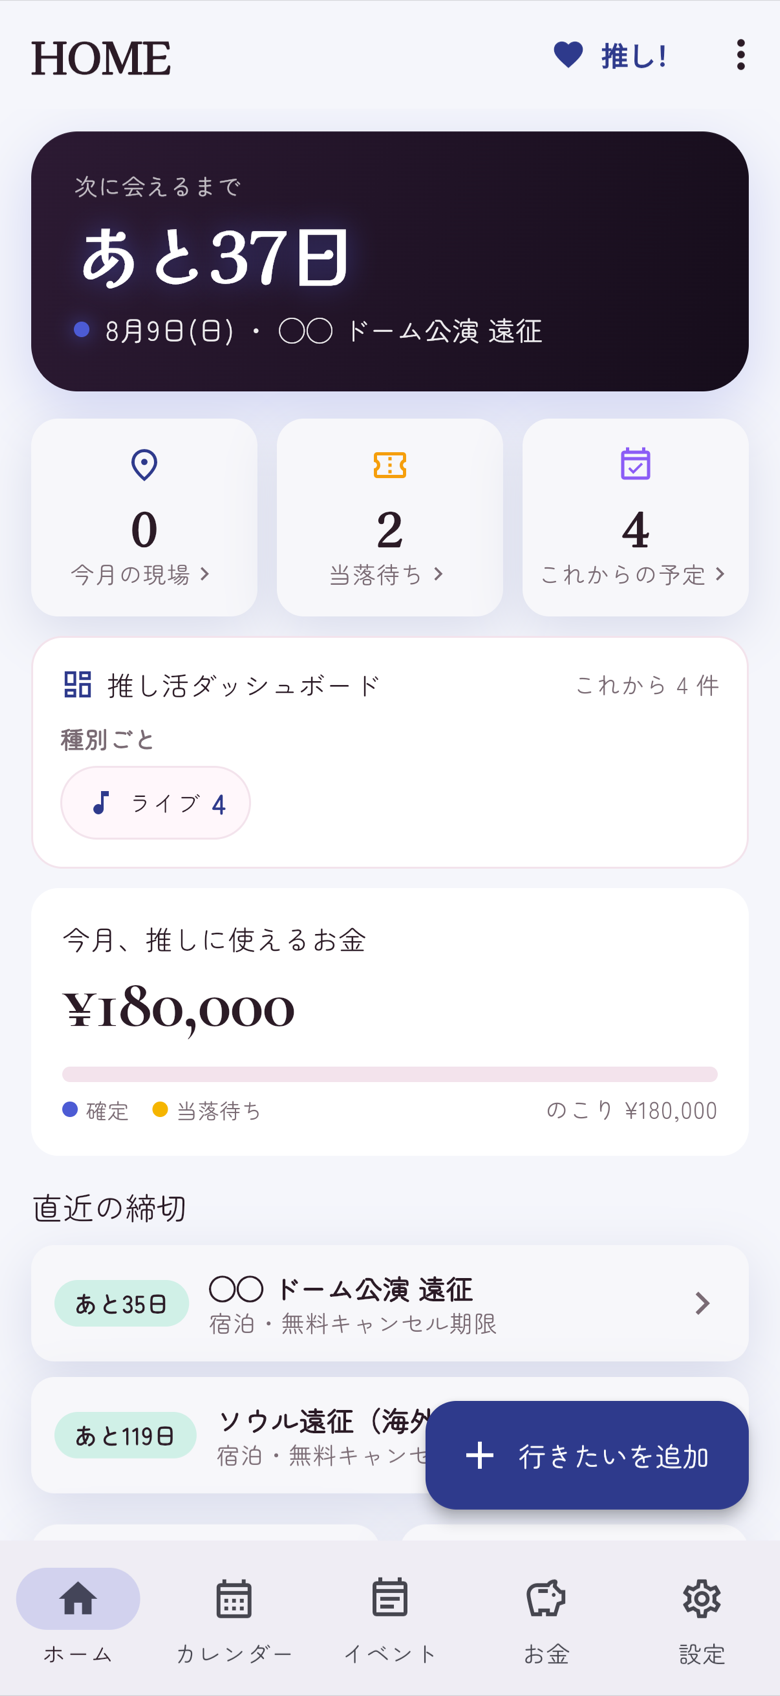
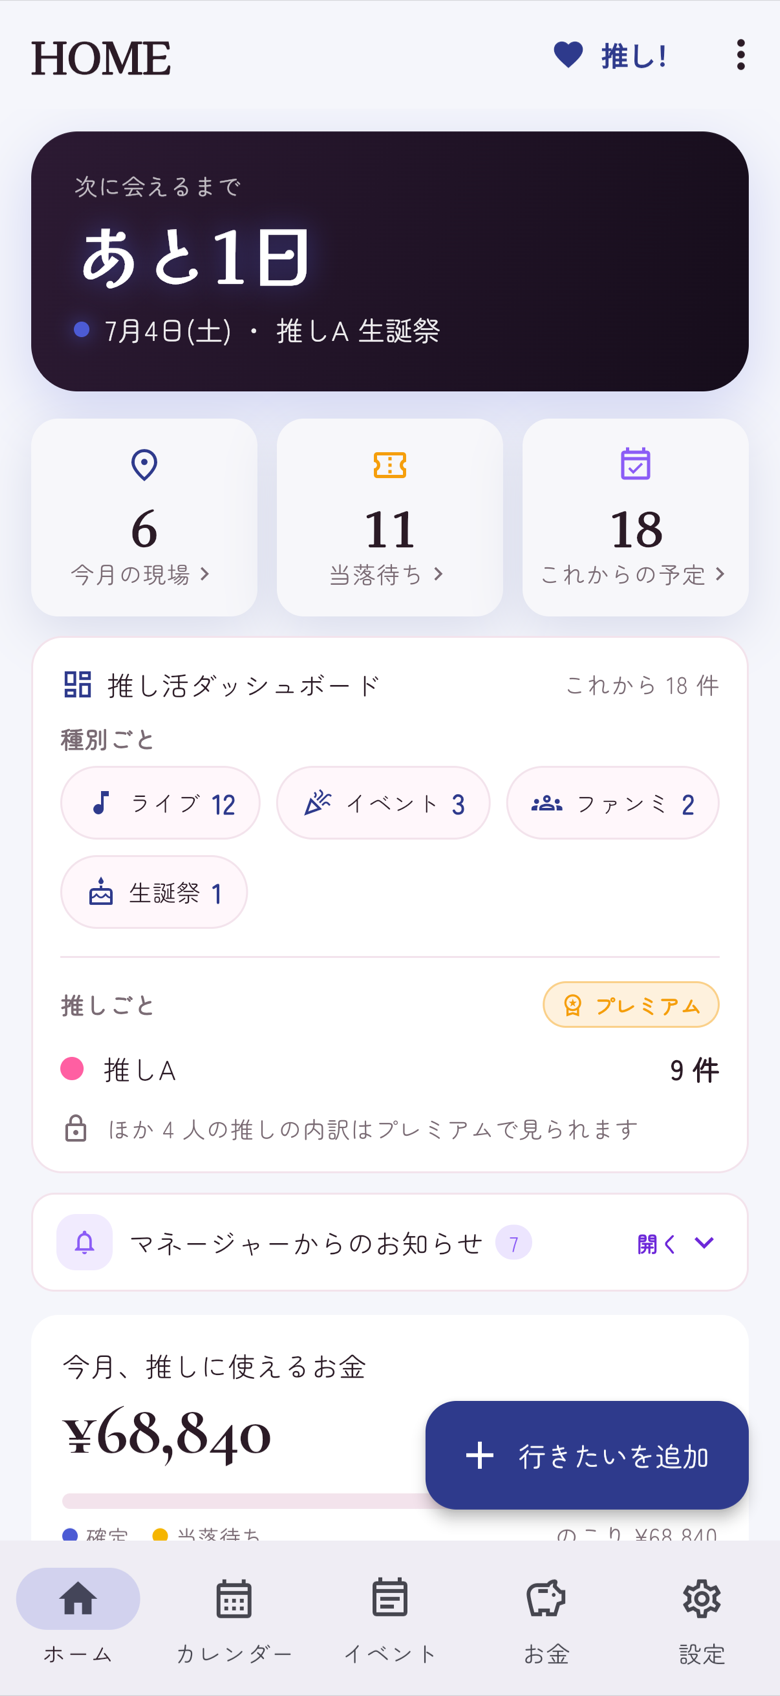
fix(LP): 旧モックの一掃＝Heroも実スクショに・カレンダー等は予定満載データで撮り直し
実機FB対応:
- Hero右の様式化phoneモック→実アプリのホーム実画面（あと1日・ダッシュボード・¥68,840）
- SCREENS/featuresの8枚を、devサンプルデータ（予定・当落・締切が満載）で全て撮り直し
  （カレンダーは入金締切・生誕祭・当落発表・遠征スパン・ホテル等で埋まった状態）
- 着せ替え節のデモは「（画面はイメージです）」を明記し、数字を実画面と整合
  （あと1日・¥68,840）＝スウォッチ連動のため唯一残るイラストモック

Claude-Session: https://claude.ai/code/session_01NMQf8iKKLMqMjWWvCsfmDs

diff --git a/index.html b/index.html
@@ -513,22 +513,7 @@ footer{background:#fff;border-top:1px solid var(--line)}
         </div>
         <div class="note">推し活の記録はスマホの中だけに保存</div>
       </div>
-      <div class="phone" role="img" aria-label="推し活マネージャーのアプリ画面イメージ">
-        <div class="phone-screen">
-          <div class="ps-status"><span>9:41</span><span>●●●&nbsp;⚡</span></div>
-          <div class="ps-appbar">推しマネ <span>ホーム</span></div>
-          <div class="ps-count">
-            <div class="l">次に会えるまで</div>
-            <div class="n">あと<b>133</b>日</div>
-            <div class="e">🎤 11月1日(日)・ソウル遠征</div>
-          </div>
-          <div class="ps-card">
-            <div class="ps-h">💰 今月、推しに使えるお金<b>¥38,400</b></div>
-            <div class="ps-gauge"><span style="width:72%"></span></div>
-            <div class="ps-sub">予算の72%・あと ¥11,600（はみ出す前にそっとお知らせ）</div>
-          </div>
-          <div class="ps-feats"><span>🎫 当落シミュ</span><span>⏳ 遠征防衛</span><span>🤝 立替・名義</span></div>
-        </div>
+      <img src="assets/screens/app-home.png" alt="推し活マネージャーの実際のホーム画面（開発中・サンプルデータ）" style="width:100%;max-width:330px;border-radius:30px;border:1px solid #f3e3ec;box-shadow:0 24px 60px rgba(31,20,48,.22);display:block;margin:0 auto" loading="eager">
       </div>
     </div>
   </section>
@@ -748,6 +733,7 @@ footer{background:#fff;border-top:1px solid var(--line)}
       <div class="head">
         <div class="kicker">SKIN</div>
         <h2>毎日ひらく画面を、推しの色に。</h2>
+        <div class="tag">スウォッチをタップすると、その色の世界観に。（画面はイメージです）</div>
       </div>
       <div style="display:flex;flex-direction:column;align-items:center;gap:4px">
       <div class="phone" role="img" aria-label="推し活マネージャーのアプリ画面イメージ">
@@ -756,13 +742,13 @@ footer{background:#fff;border-top:1px solid var(--line)}
           <div class="ps-appbar">推しマネ <span>ホーム</span></div>
           <div class="ps-count">
             <div class="l">次に会えるまで</div>
-            <div class="n">あと<b>133</b>日</div>
-            <div class="e">🎤 11月1日(日)・ソウル遠征</div>
+            <div class="n">あと<b>1</b>日</div>
+            <div class="e">🎂 7月4日(土)・推しA 生誕祭</div>
           </div>
           <div class="ps-card">
-            <div class="ps-h">💰 今月、推しに使えるお金<b>¥38,400</b></div>
+            <div class="ps-h">💰 今月、推しに使えるお金<b>¥68,840</b></div>
             <div class="ps-gauge"><span style="width:72%"></span></div>
-            <div class="ps-sub">予算の72%・あと ¥11,600（はみ出す前にそっとお知らせ）</div>
+            <div class="ps-sub">予算の62%・はみ出す前にそっとお知らせ</div>
           </div>
           <div class="ps-feats"><span>🎫 当落シミュ</span><span>⏳ 遠征防衛</span><span>🤝 立替・名義</span></div>
         </div>
